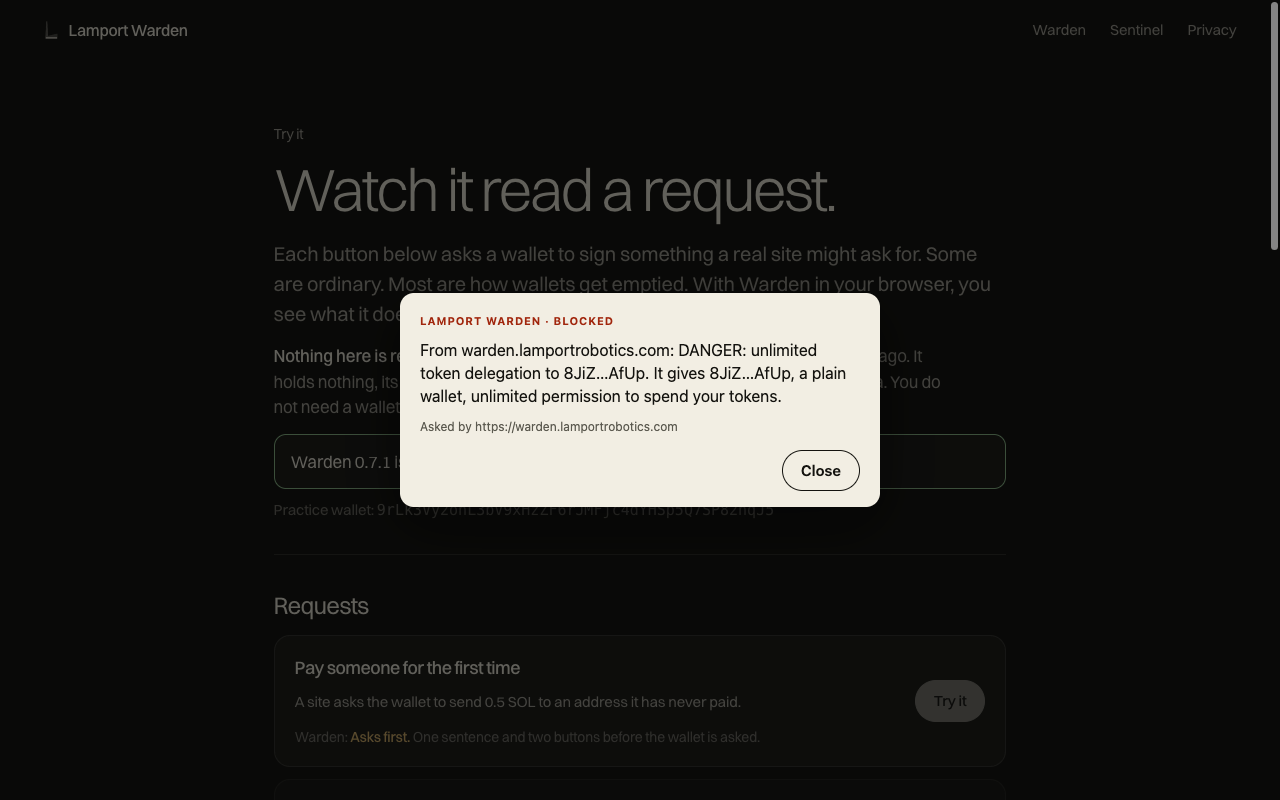
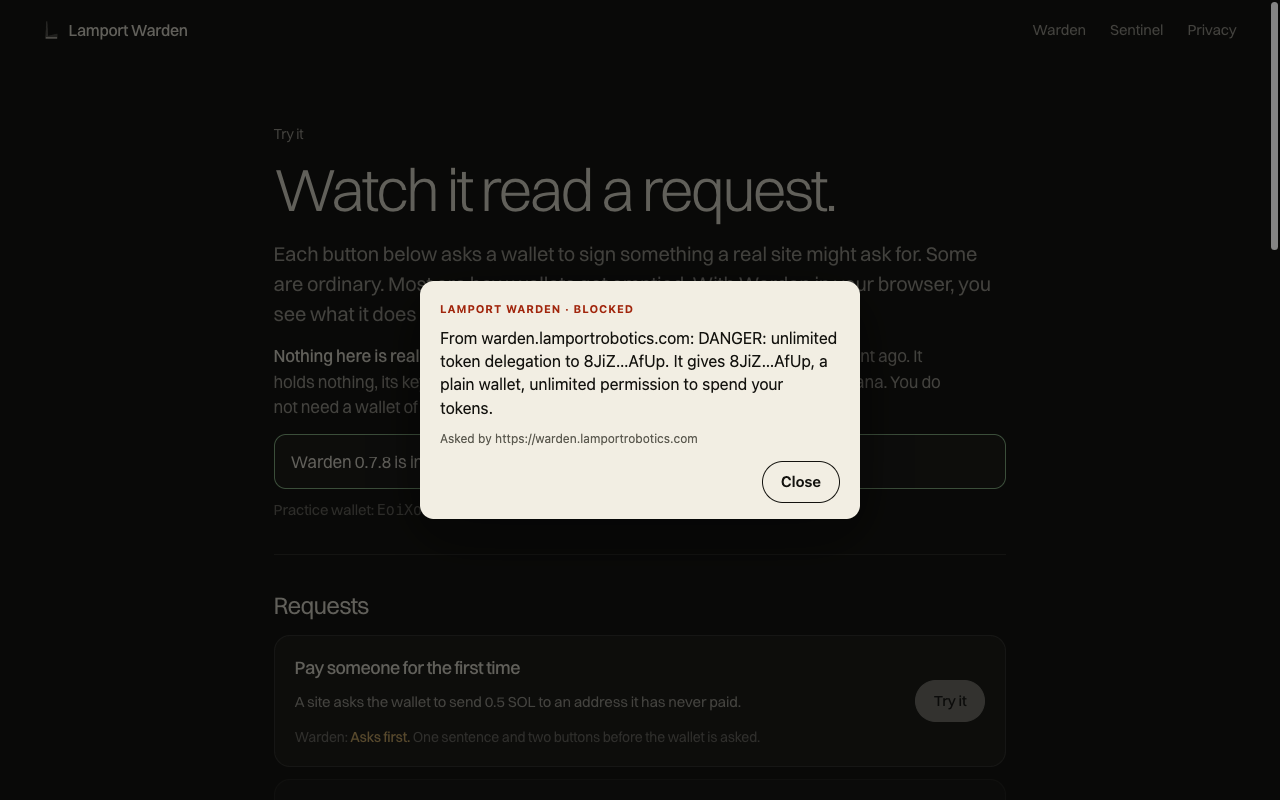
Warden 0.7.8: the settings page points at the Sentinel page for how a plan is paid (#58)
* Warden 0.7.8: the settings page points at the Sentinel page for how a plan is paid

The settings page and the store listing said a plan "is paid by card through Stripe". Since
2026-11-13 it can also be paid ahead in USDC or SOL, so the sentence was no longer the whole of it.
Both now say the Sentinel page says how it can be paid, which stays true whatever is added there.

Nothing else in the extension changes. The four store screenshots are retaken from this build, and
the listing's steps now say to submit with publishing held until it is pressed.

* A picture for links to the Warden page and the Sentinel page

A link to warden.lamportrobotics.com showed no picture where it was posted. site/og.png is the
page's own first screen (the headline and the prompt as the extension draws it), drawn by
scripts/og.mjs; both pages name it, and site/deploy.sh puts it up beside the page.

---------

Changed region(s): [[0.3125, 0.3438, 0.6875, 0.6562]]

diff --git a/sentinel/web/index.html b/sentinel/web/index.html
@@ -5,6 +5,13 @@
 <meta name="viewport" content="width=device-width, initial-scale=1, viewport-fit=cover">
 <title>Warden Sentinel</title>
 <meta name="description" content="Sentinel watches your Solana wallets after you sign and tells you in one sentence when something looks wrong.">
+<meta property="og:title" content="Warden Sentinel">
+<meta property="og:description" content="It keeps watching your Solana wallets after you sign, and tells you in one sentence when something looks wrong.">
+<meta property="og:type" content="website">
+<meta property="og:url" content="https://warden.lamportrobotics.com/sentinel/">
+<meta property="og:image" content="https://warden.lamportrobotics.com/og.png">
+<meta name="twitter:card" content="summary_large_image">
+<meta name="twitter:image" content="https://warden.lamportrobotics.com/og.png">
 <meta name="theme-color" content="#0b0b0a">
 <!-- Nothing runs here but this page's own script, and it talks to nothing but this site. -->
 <meta http-equiv="Content-Security-Policy" content="default-src 'none'; script-src 'self'; style-src 'self'; font-src 'self'; img-src 'self' data:; connect-src 'self'; base-uri 'none'; form-action 'none'">

diff --git a/site/index.html b/site/index.html
@@ -8,6 +8,14 @@
 <meta name="theme-color" content="#0b0b0a">
 <meta property="og:title" content="Lamport Warden">
 <meta property="og:description" content="It reads the request before you sign it.">
+<meta property="og:type" content="website">
+<meta property="og:url" content="https://warden.lamportrobotics.com/">
+<meta property="og:image" content="https://warden.lamportrobotics.com/og.png">
+<meta property="og:image:width" content="1200">
+<meta property="og:image:height" content="630">
+<meta property="og:image:alt" content="Lamport Warden blocking a payment to a look-alike address.">
+<meta name="twitter:card" content="summary_large_image">
+<meta name="twitter:image" content="https://warden.lamportrobotics.com/og.png">
 <link rel="icon" href="/site/mark.svg">
 <link rel="preload" href="/site/fonts/switzer-300.woff2" as="font" type="font/woff2" crossorigin>
 <link rel="preload" href="/site/fonts/switzer-400.woff2" as="font" type="font/woff2" crossorigin>

diff --git a/src/options.ts b/src/options.ts
@@ -67,7 +67,7 @@ async function load() {
     el("p", `${PLANS.pro.name} is ${dollars(PRICE_CENTS)} a month, or ${dollars(HOLDER_PRICE_CENTS)} while a wallet in your Sentinel profile holds ${HOLDER_MIN_LAMPORT.toLocaleString("en-US")} $LAMPORT. It adds:`),
     listOf(PRO_FEATURES),
     el("p", PRO_NOT_YET),
-    el("p", "A plan is started and cancelled on the Sentinel page, which also says whether Pro is on sale. It is paid by card through Stripe; nothing is bought inside this extension."),
+    el("p", "A plan is started and cancelled on the Sentinel page, which also says whether Pro is on sale and how it can be paid; nothing is bought inside this extension."),
   );
   const armed = new Map<string, { vault: string; pending: boolean }>();
   for (const [k, v] of Object.entries(all)) {

diff --git a/store/listing.md b/store/listing.md
@@ -19,22 +19,26 @@ text messages as the wallet is handed them; and the prompt takes a press only wh
 standing still. It also read a request from the side of an account named at the older door when the wallet's
 object said it was Backpack, which a page can make any wallet's object say: **0.7.5 must not be submitted.**
 0.7.6 reads such a request from both sides and asks no wallet what it is; asks once about a Backpack
-payment that goes through three of its doors; and lets a prompt taller than the window scroll. The current
-one is 0.7.7: an account named in a call is read once and the wallet is handed what was read; anything
-handed to Backpack's `send` that is not plain text is taken for a transaction; and a transaction is read
-only from the sides that sign it.
+payment that goes through three of its doors; and lets a prompt taller than the window scroll. 0.7.7: an
+account named in a call is read once and the wallet is handed what was read; anything handed to Backpack's
+`send` that is not plain text is taken for a transaction; and a transaction is read only from the sides that
+sign it. The current one is 0.7.8, which changes one sentence: the settings page no longer says a plan is
+paid by card only, and points at the Sentinel page for how it can be paid.
 
-To submit 0.7.7:
+To submit 0.7.8:
 
-1. Package tab: upload `lamport-warden-0.7.7.zip` (`pnpm package`).
+1. Package tab: upload `lamport-warden-0.7.8.zip` (`pnpm package`).
 2. Store listing tab: paste the description below again (it now mentions Sentinel and the practice page)
-   and replace the screenshots with the four in `store/screenshots/` (retaken from 0.7.1).
+   and replace the screenshots with the four in `store/screenshots/` (retaken from 0.7.8).
 3. Privacy tab: paste the storage justification and the data-usage note below again.
 4. Distribution tab: Payments. The extension itself sells nothing; it links to the Sentinel page, where the
    paid plan is sold once checkout is open. Choose "Contains in-app purchases" if checkout is open when you
-   submit, "Free of charge" if it is not.
+   submit, "Free of charge" if it is not. Checkout has been open since 2026-11-13.
 5. Test instructions tab: paste the text below (update the version in step 1 if it changed).
-6. Submit. Google flags the host permission for an in-depth review, so expect longer than a few days.
+6. Submit, with "Publish automatically after it has passed review" unticked. The review then starts and
+   nothing is public when it ends: the approved version waits (Google keeps it up to 30 days) until
+   "Publish" is pressed. Google flags the host permission for an in-depth review, so expect longer than a
+   few days.
 
 ## Store listing tab
 
@@ -99,7 +103,7 @@ Pro is $15 a month, or $10 while a wallet in your Sentinel profile holds 250,000
 Rescue is not available yet. Moving your tokens into your own Lamport Vault when a wallet is compromised needs Lamport Vault and the rescue program on Solana mainnet, and neither is there yet. It joins Pro when they are, at the same price.
 
 A plan is started and cancelled on the Sentinel page (warden.lamportrobotics.com/sentinel), which says
-whether Pro is on sale. It is paid by card through Stripe; nothing is bought inside the extension.
+whether Pro is on sale and how it can be paid. Nothing is bought inside the extension.
 
 Warden is advice in front of your wallet, not a lock on it. A page can still reach a wallet in ways an
 extension never sees. It is open source: https://github.com/Lamport-Robotics/lamport-warden
@@ -156,7 +160,7 @@ No login is needed. No wallet or cryptocurrency is needed.
 1. Install the extension. It opens its own settings page with a short welcome. Press
    "See it work with a practice wallet" there, or open https://warden.lamportrobotics.com/try/
    The page makes a practice wallet that holds nothing. Nothing on it is sent to any blockchain.
-   Near the top it says "Warden 0.7.7 is in this browser and is standing in front of the practice wallet."
+   Near the top it says "Warden 0.7.8 is in this browser and is standing in front of the practice wallet."
 2. Press "Try it" beside "Pay someone for the first time".
    The extension shows its prompt: one sentence saying what the request does, with Cancel and
    "Continue to wallet". Press "Continue to wallet".

diff --git a/site/README.md b/site/README.md
@@ -1,6 +1,7 @@
 # The Warden page
 
-`index.html` is the page for https://warden.lamportrobotics.com, and `privacy/index.html` is the privacy policy
+`index.html` is the page for https://warden.lamportrobotics.com (`og.png` is the picture a link to it shows where it
+is posted; `node scripts/og.mjs` draws it again from the page's headline and prompt), and `privacy/index.html` is the privacy policy
 at `/privacy/` (the same text as `PRIVACY.md`; change both together). One static file in the main site's type and
 colours. It loads nothing but that site's own fonts and logo (`/site/fonts/switzer-*.woff2`, `/site/mark.svg`),
 which are not copied into this repo: the server serves them from the main site's folder.
